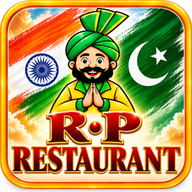
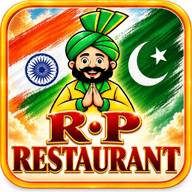
perf(web): public page back under the 640 KB budget
Brand PNGs re-encoded as palette PNGs (192px marks 96 KB → 24 KB, 512px
624 KB → 121 KB; `pnpm brand:web` regenerates them from the masters and
fails if a critical icon exceeds 25 KB). The payment-method registry moved
to a zero-dependency module so the guest cart chunk no longer pulls in zod
(76 KB → 11 KB). Lighthouse total 669 KB → 460 KB; no assertion relaxed.

diff --git a/scripts/brand-web.ts b/scripts/brand-web.ts
@@ -1,0 +1,96 @@
+/**
+ * Derives every brand PNG the WEB serves from the two 1024² masters.
+ *
+ *   public/brand/rangla-logo.png                  → the venue mark (logo-*)
+ *   public/brand/rangla-punjab-mobile-app-icon.*  → the launcher art (icon-*)
+ *
+ * The mobile app's own assets are NOT our business — `scripts/brand-mobile.ts`
+ * owns `mobile/assets/*`. This script only writes into `public/`.
+ *
+ * Why it exists: the icons dropped in by hand for the September 2026 rebrand
+ * were straight 24-bit exports — 96 kB at 192², 610 kB at 512². Two of them
+ * (`brand/logo-192.png` behind the public menu's venue mark, `brand/icon-192.png`
+ * behind the web-app manifest) are fetched on every guest page load, so they
+ * alone put the Lighthouse `resource-summary:total:size` budget in
+ * `lighthouserc.json` 63 kB over the line.
+ *
+ * The art is a flat-shaded illustration, so a 256-colour palette is visually
+ * indistinguishable from the 24-bit original even magnified — see the 96 px
+ * A/B in the P1-26 fix — and costs a quarter of the bytes. Everything stays
+ * PNG: the manifest and apple-touch-icon consumers require it, and the email
+ * templates (`src/emails/layout.tsx` renders `logo-192` at 84²) reach mail
+ * clients that still do not decode WebP.
+ *
+ * Re-run after replacing a master:  pnpm brand:web
+ */
+import { readFile, stat, writeFile } from "node:fs/promises";
+import path from "node:path";
+import sharp from "sharp";
+
+const LOGO_MASTER = "public/brand/rangla-logo.png";
+const ICON_MASTER = "public/brand/rangla-punjab-mobile-app-icon.jpeg";
+
+interface Output {
+  /** Path under the repo root. */
+  file: string;
+  master: string;
+  size: number;
+  /** Fetched by a guest on the public menu — keep these smallest. */
+  critical?: boolean;
+}
+
+const OUTPUTS: Output[] = [
+  // The venue mark. Rendered at 40–44 CSS px by the public menu, 32 px in the
+  // admin rail, 84 px in email. 192² covers all of them past 4× DPR.
+  { file: "public/brand/logo-192.png", master: LOGO_MASTER, size: 192, critical: true },
+  { file: "public/brand/logo-512.png", master: LOGO_MASTER, size: 512 },
+  // Web-app manifest icons (src/app/manifest.ts, src/lib/venue-manifest.ts).
+  // The 192 is fetched during the installability check on every audit.
+  { file: "public/brand/icon-192.png", master: ICON_MASTER, size: 192, critical: true },
+  { file: "public/brand/icon-512.png", master: ICON_MASTER, size: 512 },
+  // apple-touch-icon (src/app/layout.tsx, src/lib/menu-images.ts) + the 512
+  // sibling kept beside it for parity with the manifest pair.
+  { file: "public/rangla-icon-180.png", master: ICON_MASTER, size: 180 },
+  { file: "public/rangla-icon-512.png", master: ICON_MASTER, size: 512 },
+];
+
+/** A critical-path icon over this is a regression worth failing on. */
+const CRITICAL_BUDGET_BYTES = 25_000;
+
+async function main(): Promise<void> {
+  const root = process.cwd();
+  let failed = false;
+
+  for (const out of OUTPUTS) {
+    const master = await readFile(path.join(root, out.master));
+    const before = await stat(path.join(root, out.file)).then(
+      (s) => s.size,
+      () => 0,
+    );
+    const png = await sharp(master)
+      .resize(out.size, out.size, { fit: "cover", kernel: "lanczos3" })
+      // `palette` routes through libimagequant — same engine as pngquant,
+      // no external binary, so this runs anywhere `sharp` installs.
+      .png({ palette: true, quality: 85, effort: 10, compressionLevel: 9 })
+      .toBuffer();
+    await writeFile(path.join(root, out.file), png);
+
+    const kb = (n: number): string => `${(n / 1024).toFixed(1)} KB`;
+    console.log(
+      `${out.file.padEnd(32)} ${out.size}²  ${kb(before).padStart(9)} → ${kb(png.length).padStart(9)}`,
+    );
+    if (out.critical && png.length > CRITICAL_BUDGET_BYTES) {
+      console.error(
+        `  ✗ ${out.file} is ${kb(png.length)}, over the ${kb(CRITICAL_BUDGET_BYTES)} critical-path budget`,
+      );
+      failed = true;
+    }
+  }
+
+  if (failed) process.exitCode = 1;
+}
+
+main().catch((error) => {
+  console.error(error);
+  process.exitCode = 1;
+});

diff --git a/src/lib/ordering-config.ts b/src/lib/ordering-config.ts
@@ -1,5 +1,6 @@
 import { z } from "zod";
 import type { Entitlements } from "./plan-state";
+import { PAYMENT_METHODS, DEFAULT_PAYMENTS, type PaymentMethodId } from "./payment-methods";
 
 /**
  * Per-venue ordering switches — the owner's layer beneath the plan
@@ -34,29 +35,20 @@ export const deliveryAreaSchema = z.object({
 export type DeliveryArea = z.infer<typeof deliveryAreaSchema>;
 
 /**
- * Payment-method registry: stable ids in the DB, label + optional emoji
- * for display. Informational (how you can pay on site / at the door) —
- * online payment is its own Stripe-Connect-gated feature. Brand marks
- * (Visa, Mastercard, Apple Pay, …) are deliberately TEXT chips: we don't
- * recreate trademarked logos; emoji only where generic.
+ * Payment-method registry — the constants themselves live in the leaf
+ * module `payment-methods.ts` (no zod, no imports) so a client component
+ * can read the registry without pulling this schema file, and zod with it,
+ * into the guest bundle. Re-exported here because every server-side caller
+ * has always found them on `ordering-config`.
+ *
+ * Brand marks (Visa, Mastercard, Apple Pay, …) are deliberately TEXT chips
+ * in the registry: we don't recreate trademarked logos; emoji only where
+ * generic.
  */
-export const PAYMENT_METHODS = [
-  { id: "cash", label: "Cash", emoji: "💶" },
-  { id: "girocard", label: "Girocard / EC", emoji: "💳" },
-  { id: "visa", label: "Visa", emoji: "" },
-  { id: "mastercard", label: "Mastercard", emoji: "" },
-  { id: "amex", label: "American Express", emoji: "" },
-  { id: "apple_pay", label: "Apple Pay", emoji: "📱" },
-  { id: "google_pay", label: "Google Pay", emoji: "📱" },
-  { id: "paypal", label: "PayPal", emoji: "" },
-] as const;
-
-export type PaymentMethodId = (typeof PAYMENT_METHODS)[number]["id"];
+export { PAYMENT_METHODS, DEFAULT_PAYMENTS };
+export type { PaymentMethodId };
 
 const PAYMENT_IDS = PAYMENT_METHODS.map((m) => m.id) as readonly string[];
-
-/** What a typical German restaurant takes — the onboarding default. */
-export const DEFAULT_PAYMENTS: PaymentMethodId[] = ["cash", "girocard", "visa", "mastercard"];
 
 /** Owner inboxes that get a "new order" email. Up to five, so a shift
  *  lead and the office can both be on it; junk is dropped per address

diff --git a/src/lib/payment-methods.ts b/src/lib/payment-methods.ts
@@ -1,0 +1,32 @@
+/**
+ * Payment-method registry: stable ids in the DB, label + optional emoji
+ * for display. Informational (how you can pay on site / at the door) —
+ * online payment is its own Stripe-Connect-gated feature.
+ *
+ * This is a LEAF module on purpose: no imports, no zod. It used to live in
+ * `ordering-config.ts`, which is the right home for the *schema* but the
+ * wrong one for a constant the guest page needs — `payment-marks.tsx` is a
+ * client component, so value-importing the registry from there dragged
+ * `ordering-config` and therefore the whole of zod into the guest's cart
+ * chunk (~23 kB gzipped of parser nobody runs in the browser), which
+ * `lighthouserc.json`'s `resource-summary:script:size` budget pays for.
+ *
+ * `ordering-config.ts` re-exports everything here, so server-side callers
+ * can keep importing it from there.
+ */
+
+export const PAYMENT_METHODS = [
+  { id: "cash", label: "Cash", emoji: "💶" },
+  { id: "girocard", label: "Girocard / EC", emoji: "💳" },
+  { id: "visa", label: "Visa", emoji: "" },
+  { id: "mastercard", label: "Mastercard", emoji: "" },
+  { id: "amex", label: "American Express", emoji: "" },
+  { id: "apple_pay", label: "Apple Pay", emoji: "📱" },
+  { id: "google_pay", label: "Google Pay", emoji: "📱" },
+  { id: "paypal", label: "PayPal", emoji: "" },
+] as const;
+
+export type PaymentMethodId = (typeof PAYMENT_METHODS)[number]["id"];
+
+/** What a typical German restaurant takes — the onboarding default. */
+export const DEFAULT_PAYMENTS: PaymentMethodId[] = ["cash", "girocard", "visa", "mastercard"];

diff --git a/src/app/(public)/order/cart-drawer.tsx b/src/app/(public)/order/cart-drawer.tsx
@@ -6,7 +6,7 @@ import { useEffect, useRef, useState, useSyncExternalStore } from "react";
 import type { Dispatch, SetStateAction } from "react";
 import { MessagePopup } from "@/components/message-popup";
 import { acceptedPaymentIds, PaymentMarks } from "../payment-marks";
-import type { PaymentMethodId } from "@/lib/ordering-config";
+import type { PaymentMethodId } from "@/lib/payment-methods";
 import type { CheckoutCopy } from "@/lib/i18n/checkout/en";
 import { loadCheckoutCopy } from "@/lib/i18n/checkout/load";
 import { dirFor, uiLocale } from "@/lib/locales";

diff --git a/src/app/(public)/payment-marks.tsx b/src/app/(public)/payment-marks.tsx
@@ -1,5 +1,8 @@
 import { siApplepay, siGooglepay } from "simple-icons";
-import { PAYMENT_METHODS, type PaymentMethodId } from "@/lib/ordering-config";
+// The registry, NOT `@/lib/ordering-config` — this file is pulled into the
+// guest's client bundle by the cart drawer, and ordering-config carries the
+// zod schema with it. See `src/lib/payment-methods.ts`.
+import { PAYMENT_METHODS, type PaymentMethodId } from "@/lib/payment-methods";
 
 /**
  * "Accepted payments" strip — the row of brand marks a guest scans before
